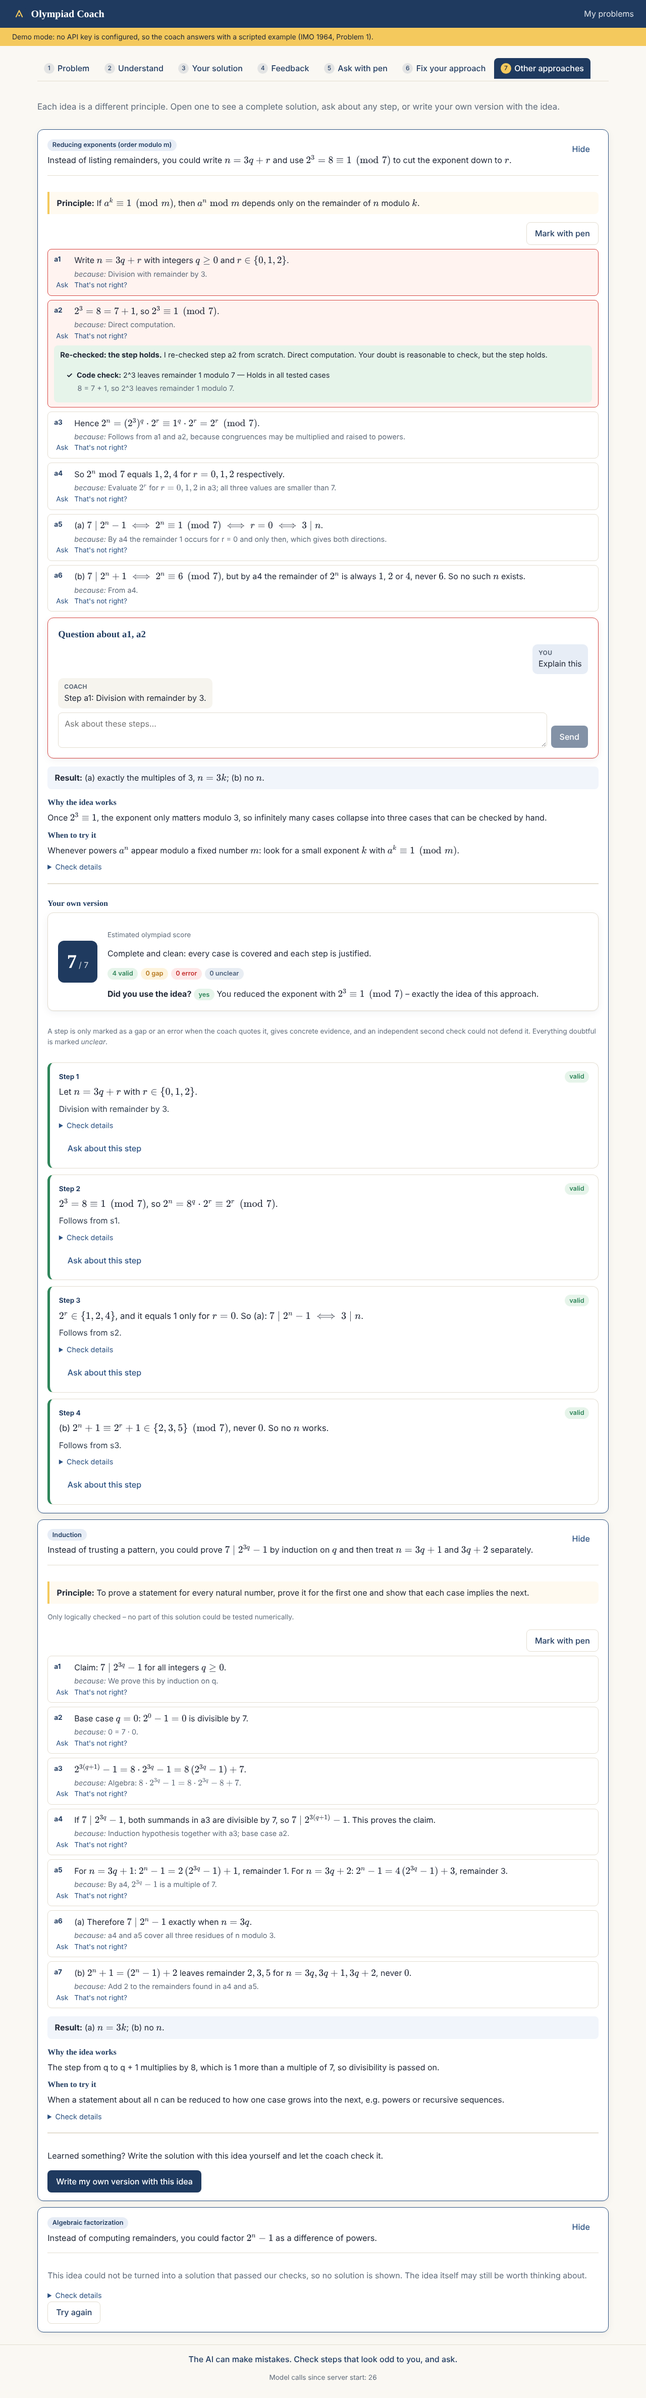
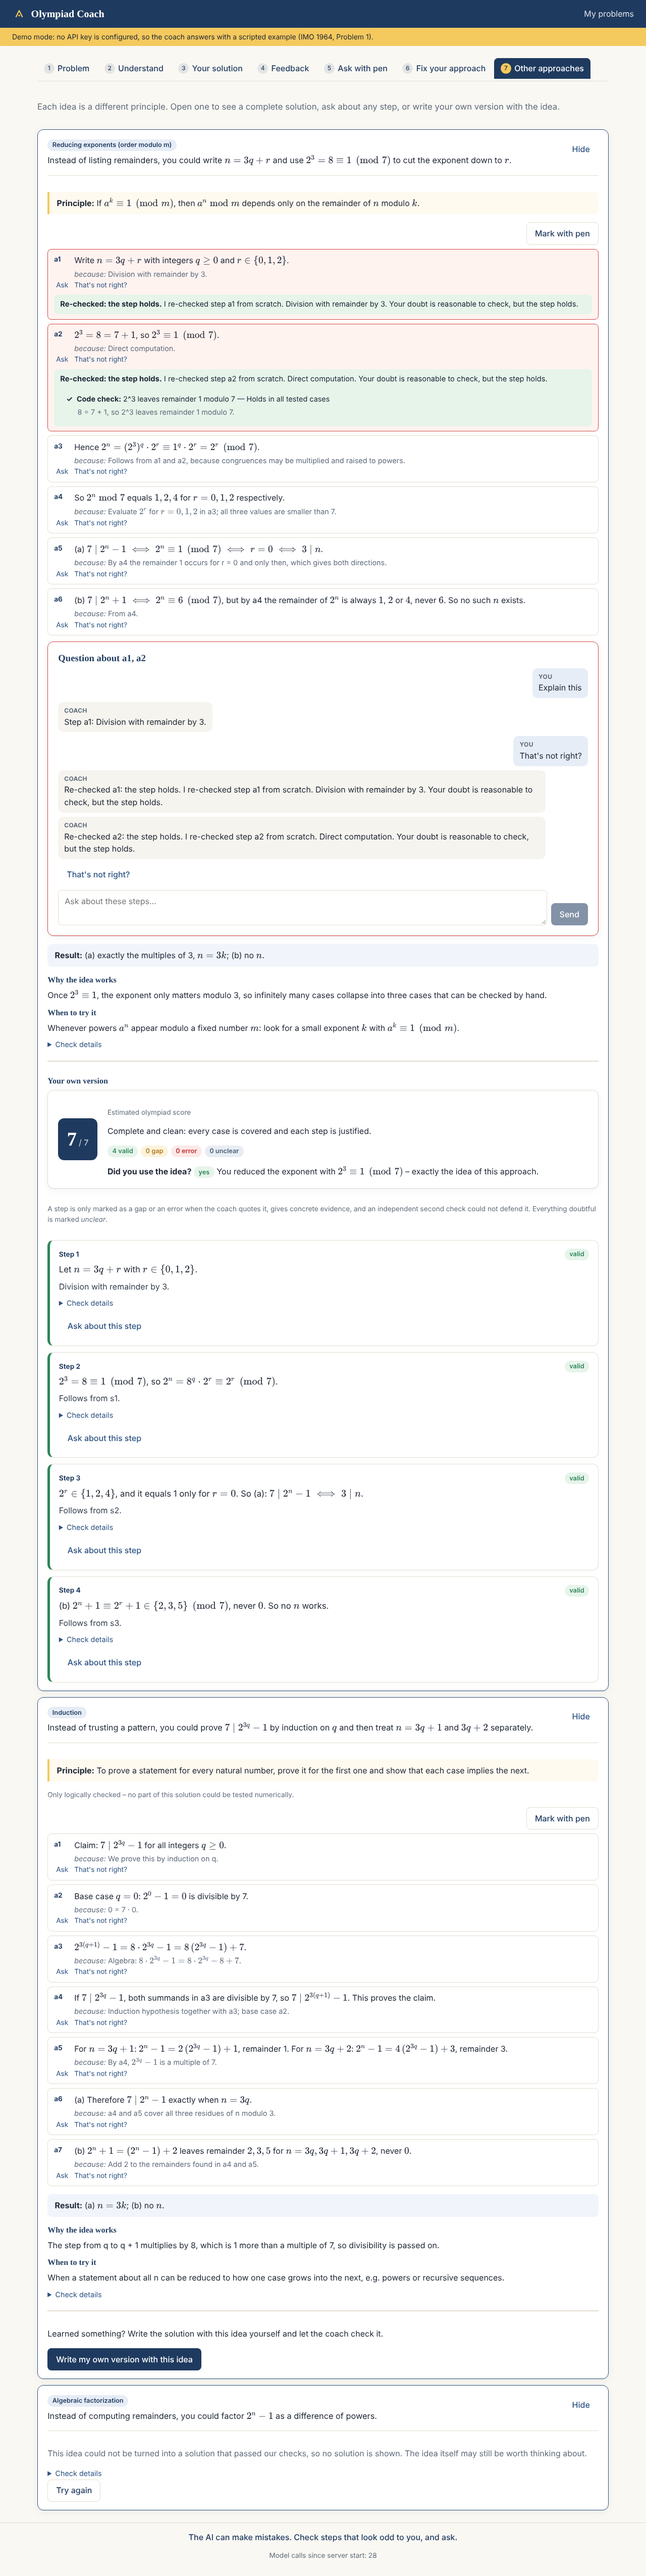
Tolerate unescaped LaTeX in model JSON; challenge coach steps from pen markings
- extractJson doubles backslashes that are invalid JSON escapes or start a
  LaTeX command (\frac, \neq, \times …) and tries every opening bracket,
  so typical real-model answers parse without a repair round
- 'That's not right?' on a pen-marked thread re-checks each marked step of
  an alternative solution independently (spec D)

Claude-Session: https://claude.ai/code/session_017XXuRAM1f3yjJWBmgRbTxr

diff --git a/src/features/alternatives/AlternativeCard.tsx b/src/features/alternatives/AlternativeCard.tsx
@@ -18,6 +18,8 @@ import { RunAssessment } from '../attempt/FeedbackStage';
 
 type AltUpdater = (fn: (a: Alternative) => void) => void;
 
+const CHALLENGE = "That's not right?";
+
 export function AlternativeCard({
   alt,
   decision,
@@ -178,27 +180,55 @@ function SolutionView({
     }
   };
 
+  /** Re-checks one step independently (spec D); code can overrule the verdict into "unclear". */
+  const challengeStep = async (stepId: string, concern: string) => {
+    const result = await api.challenge({ problem, solution: plainSteps, stepId, concern });
+    let check: CheckRun | undefined;
+    if (result.check_code) check = await runCheck(result.check_claim || 'Claim of this step', result.check_code, 'challenge');
+    const holds = check?.outcome.ran ? check.outcome.holds : null;
+    let final = result.verdict;
+    if (final === 'step_flawed' && holds === true) final = 'unclear';
+    if (final === 'step_valid' && holds === false) final = 'unclear';
+    updateAlt((a) => {
+      a.challenges[stepId] = { concern, result, check, final };
+    });
+    return { final, explanation: result.explanation };
+  };
+
   const runChallenge = async () => {
     if (!challenge) return;
     setChallengeBusy(true);
     setChallengeError('');
     try {
-      const result = await api.challenge({ problem, solution: plainSteps, stepId: challenge.stepId, concern: challenge.concern });
-      let check: CheckRun | undefined;
-      if (result.check_code) check = await runCheck(result.check_claim || 'Claim of this step', result.check_code, 'challenge');
-      const holds = check?.outcome.ran ? check.outcome.holds : null;
-      let final = result.verdict;
-      if (final === 'step_flawed' && holds === true) final = 'unclear';
-      if (final === 'step_valid' && holds === false) final = 'unclear';
-      const { stepId, concern } = challenge;
-      updateAlt((a) => {
-        a.challenges[stepId] = { concern, result, check, final };
-      });
+      await challengeStep(challenge.stepId, challenge.concern);
       setChallenge(null);
     } catch (err) {
       setChallengeError(errorMessage(err));
     } finally {
       setChallengeBusy(false);
+    }
+  };
+
+  /** "That's not right?" on a pen marking: re-check every marked step and answer in the thread. */
+  const challengeThread = async (threadId: string, concern: string) => {
+    const thread = alt.threads.find((t) => t.id === threadId)!;
+    setBusyThread(threadId);
+    setThreadError('');
+    updateAlt((a) => {
+      a.threads.find((t) => t.id === threadId)!.messages.push({ role: 'user', text: concern });
+    });
+    try {
+      for (const stepId of thread.stepIds) {
+        const { final, explanation } = await challengeStep(stepId, concern);
+        const verdict = final === 'step_valid' ? 'the step holds' : final === 'step_flawed' ? 'you are right, the step is flawed' : 'not sure';
+        updateAlt((a) => {
+          a.threads.find((t) => t.id === threadId)!.messages.push({ role: 'coach', text: `Re-checked ${stepId}: ${verdict}. ${explanation}` });
+        });
+      }
+    } catch (err) {
+      setThreadError(errorMessage(err));
+    } finally {
+      setBusyThread(null);
     }
   };
 
@@ -267,10 +297,10 @@ function SolutionView({
                 <button
                   type="button"
                   className="link"
-                  onClick={() => setChallenge({ stepId: s.id, concern: "That's not right?" })}
+                  onClick={() => setChallenge({ stepId: s.id, concern: CHALLENGE })}
                   data-testid={`challenge-${s.id}`}
                 >
-                  That's not right?
+                  {CHALLENGE}
                 </button>
               </div>
               {challenge?.stepId === s.id && (
@@ -319,10 +349,10 @@ function SolutionView({
             >
               <ChatThread
                 messages={t.messages}
-                onSend={(q) => void ask(t.id, q)}
+                onSend={(q) => void (q === CHALLENGE ? challengeThread(t.id, q) : ask(t.id, q))}
                 busy={busyThread === t.id}
                 error={t.id === activeThread ? threadError : undefined}
-                quickActions={t.messages.length === 0 ? ['Explain this', 'Why does this follow?'] : []}
+                quickActions={t.messages.length === 0 ? ['Explain this', 'Why does this follow?', CHALLENGE] : [CHALLENGE]}
                 placeholder="Ask about these steps…"
               />
             </Card>

diff --git a/server/llm/json.ts b/server/llm/json.ts
@@ -12,31 +12,66 @@ export class ModelOutputError extends Error {
   }
 }
 
-/** Finds the first complete JSON object/array in a text (handles ```json fences and chatter). */
-export function extractJson(text: string): unknown {
-  const trimmed = text.trim();
-  try {
-    return JSON.parse(trimmed);
-  } catch {
-    // fall through
-  }
-  const fenced = trimmed.match(/```(?:json)?\s*([\s\S]*?)```/i);
-  if (fenced) {
-    try {
-      return JSON.parse(fenced[1]);
-    } catch {
-      // fall through
+// LaTeX commands that start with a valid JSON escape letter (\b \f \n \r \t). Models often
+// forget to double the backslash, which would silently turn "\frac" into a form feed + "rac".
+const LATEX_AFTER_ESCAPE =
+  /^(?:b(?:eta|inom|mod|ar|ig|igl|igr|igg|oxed|ullet|ot|egin|ackslash)|f(?:rac|orall|lat|rak|rown)|n(?:eq|abla|ot|otin|u|mid|e|ewline|exists|i|eg|leq|geq|parallel|subseteq)|r(?:ight|angle|ho|floor|ceil|brace|vert|Vert)|t(?:imes|ext|extbf|extit|au|heta|o|frac|ilde|riangle|op|imes))(?![a-zA-Z])/;
+
+/**
+ * Doubles backslashes inside JSON strings that are not valid escapes, or that are
+ * the start of a LaTeX command (e.g. \frac, \neq). Leaves everything else unchanged.
+ */
+export function repairLatexEscapes(raw: string): string {
+  let out = '';
+  let inString = false;
+  for (let i = 0; i < raw.length; i++) {
+    const ch = raw[i];
+    if (!inString) {
+      if (ch === '"') inString = true;
+      out += ch;
+      continue;
+    }
+    if (ch === '"') {
+      inString = false;
+      out += ch;
+      continue;
+    }
+    if (ch !== '\\') {
+      out += ch;
+      continue;
+    }
+    const next = raw[i + 1] ?? '';
+    if (next === '\\' || next === '"' || next === '/') {
+      out += ch + next;
+      i++;
+    } else if (next === 'u' && /^[0-9a-fA-F]{4}$/.test(raw.slice(i + 2, i + 6))) {
+      out += ch;
+    } else if ('bfnrt'.includes(next) && next !== '' && !LATEX_AFTER_ESCAPE.test(raw.slice(i + 1))) {
+      out += ch;
+    } else {
+      out += '\\\\';
     }
   }
-  const start = trimmed.search(/[[{]/);
-  if (start < 0) throw new Error('no JSON found');
-  const open = trimmed[start];
+  return out;
+}
+
+function parse(text: string): unknown {
+  try {
+    return JSON.parse(repairLatexEscapes(text));
+  } catch {
+    return JSON.parse(text);
+  }
+}
+
+/** Balanced {...} or [...] starting at `start`, or null. */
+function balanced(text: string, start: number): string | null {
+  const open = text[start];
   const close = open === '{' ? '}' : ']';
   let depth = 0;
   let inString = false;
   let escaped = false;
-  for (let i = start; i < trimmed.length; i++) {
-    const ch = trimmed[i];
+  for (let i = start; i < text.length; i++) {
+    const ch = text[i];
     if (inString) {
       if (escaped) escaped = false;
       else if (ch === '\\') escaped = true;
@@ -45,11 +80,40 @@ export function extractJson(text: string): unknown {
     }
     if (ch === '"') inString = true;
     else if (ch === open) depth++;
-    else if (ch === close && --depth === 0) {
-      return JSON.parse(trimmed.slice(start, i + 1));
+    else if (ch === close && --depth === 0) return text.slice(start, i + 1);
+  }
+  return null;
+}
+
+/** Finds the first complete JSON object/array in a text (handles ```json fences, chatter and unescaped LaTeX). */
+export function extractJson(text: string): unknown {
+  const trimmed = text.trim();
+  try {
+    return parse(trimmed);
+  } catch {
+    // fall through
+  }
+  const fenced = trimmed.match(/```(?:json)?\s*([\s\S]*?)```/i);
+  if (fenced) {
+    try {
+      return parse(fenced[1]);
+    } catch {
+      // fall through
     }
   }
-  throw new Error('unterminated JSON');
+  let attempts = 0;
+  for (let i = 0; i < trimmed.length && attempts < 20; i++) {
+    if (trimmed[i] !== '{' && trimmed[i] !== '[') continue;
+    attempts++;
+    const candidate = balanced(trimmed, i);
+    if (!candidate) continue;
+    try {
+      return parse(candidate);
+    } catch {
+      // try the next opening bracket
+    }
+  }
+  throw new Error('no JSON found');
 }
 
 export interface UsageSink {

diff --git a/tests/unit/json.test.ts b/tests/unit/json.test.ts
@@ -1,6 +1,6 @@
 import { describe, expect, it } from 'vitest';
 import { RefutationSchema } from '../../shared/schemas';
-import { ModelOutputError, callJson, extractJson } from '../../server/llm/json';
+import { ModelOutputError, callJson, extractJson, repairLatexEscapes } from '../../server/llm/json';
 import type { CompletionRequest, LLMProvider } from '../../server/llm/types';
 
 describe('extractJson', () => {
@@ -13,6 +13,22 @@ describe('extractJson', () => {
     });
     expect(extractJson('{"tex": "$\\\\frac{1}{2}$"}')).toEqual({ tex: '$\\frac{1}{2}$' });
   });
+  it('repairs LaTeX written with single backslashes', () => {
+    // As a model would emit it: invalid escapes (\p, \m) and LaTeX that collides with JSON escapes (\f, \n, \t).
+    const raw = String.raw`{"a": "$\frac{1}{2} \pmod 7$, $7 \mid n$, $a \neq b$, $\text{odd}$ and $\times$\nNext line\tTab"}`;
+    expect(extractJson(raw)).toEqual({ a: '$\\frac{1}{2} \\pmod 7$, $7 \\mid n$, $a \\neq b$, $\\text{odd}$ and $\\times$\nNext line\tTab' });
+  });
+
+  it('leaves correctly escaped JSON alone', () => {
+    const ok = JSON.stringify({ a: '$\\frac{1}{2}$\nline', b: 'quote " and \\u0041', c: '\u00e9' });
+    expect(repairLatexEscapes(ok)).toBe(ok);
+    expect(extractJson(ok)).toEqual(JSON.parse(ok));
+  });
+
+  it('skips braces in chatter before the JSON', () => {
+    expect(extractJson('The set $\\{1, 2\\}$ matters. {"a": 1}')).toEqual({ a: 1 });
+  });
+
   it('throws when there is no JSON', () => {
     expect(() => extractJson('no json here')).toThrow();
     expect(() => extractJson('{"a": 1')).toThrow();

diff --git a/tests/e2e/flow.spec.ts b/tests/e2e/flow.spec.ts
@@ -165,6 +165,9 @@ test('full coaching flow in demo mode', async ({ page }) => {
   await expect(thread).toHaveCount(1);
   await thread.getByRole('button', { name: 'Explain this' }).click();
   await expect(thread.locator('.chat-coach')).toContainText('Step a1');
+  // Challenging the marked steps re-runs the independent check on each of them.
+  await thread.getByRole('button', { name: "That's not right?" }).click();
+  await expect(thread.locator('.chat-coach').last()).toContainText(/Re-checked a\d: the step holds/);
   await shot(page, '09-alternatives');
 
   // Submit an own version with the new idea -> same evaluation pipeline
